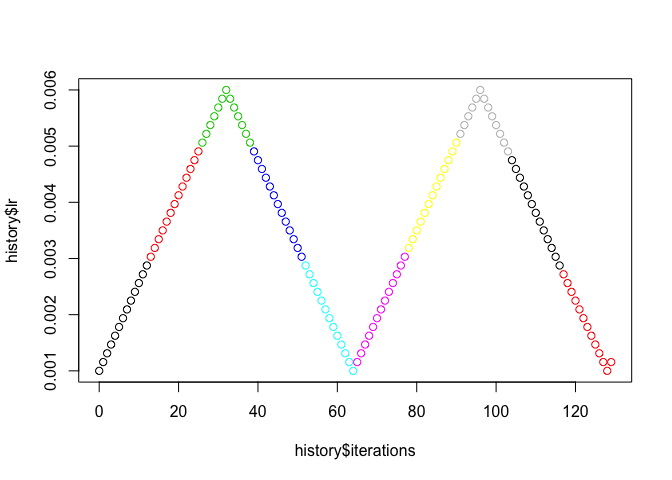
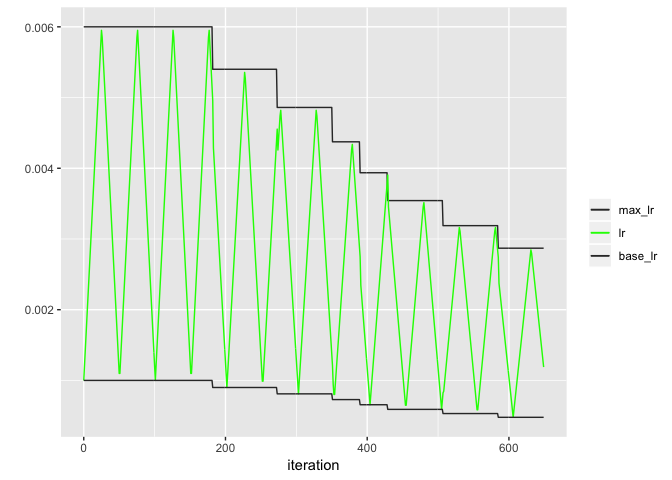
update readme

diff --git a/README.md b/README.md
@@ -14,10 +14,13 @@ the R implementation of Keras. Currently, the package features:
 
   - a Keras callback for cyclical learning rate scheduling as proposed
     by [Smith (2017)](https://arxiv.org/abs/1506.01186), closely adapted
-    from the [Python implementation](https://github.com/bckenstler/CLR).
-    Please see the [README](https://github.com/bckenstler/CLR) from the
-    Python implementation for details. It’s really almost a 1:1
-    translation.
+    from the [Python implementation](https://github.com/bckenstler/CLR)
+    and then extended so they the bands are scaled by a constant factor
+    (typically \< 1) after the validation loss has not improved for a
+    while. For details, see the
+    [README](https://github.com/bckenstler/CLR) from the Python
+    implementation and the example below for dynamically adjusting
+    bandwidths.
 
 Contributions welcome.
 
@@ -61,20 +64,28 @@ model %>% compile(
 )
 ```
 
-Next, we can fit the model with a learning rate schedule.
+Next, we can fit the model with a learning rate schedule. We dynamically
+adjust the bandwidths of the learnin rate (multiplication with 0.9)
+whenever the validation loss does not decrease for three epochs. When
+decreased, we wait 2 epochs (`cooldown`) before we set in the patience
+counter again.
 
 ``` r
+iter_per_epoch <- nrow(train_data) / 32
 callback_clr <- new_callback_cyclical_learning_rate(
-  step_size = 32,
+  step_size = iter_per_epoch * 2,
   base_lr = 0.001,
   max_lr = 0.006,
-  gamma = 0.99,
-  mode = "triangular"
+  mode = "triangular", 
+  patience = 3, 
+  factor = 0.9, 
+  cooldown = 2,
+  verbose = 0
 )
 model %>% fit(
   train_data, train_targets,
   validation_data = list(test_data, test_targets),
-  epochs = 10, verbose = 1,
+  epochs = 50, verbose = 0,
   callbacks = list(callback_clr)
 )
 ```
@@ -83,19 +94,18 @@ We can now have a look at the learning rates:
 
 ``` r
 head(callback_clr$history)
-#>           lr iterations epochs
-#> 1 0.00100000          0      1
-#> 2 0.00115625          1      1
-#> 3 0.00131250          2      1
-#> 4 0.00146875          3      1
-#> 5 0.00162500          4      1
-#> 6 0.00178125          5      1
+#>            lr base_lr max_lr iteration epochs
+#> 1 0.001000000   0.001  0.006         0      1
+#> 2 0.001198020   0.001  0.006         1      1
+#> 3 0.001396040   0.001  0.006         2      1
+#> 4 0.001594059   0.001  0.006         3      1
+#> 5 0.001792079   0.001  0.006         4      1
+#> 6 0.001990099   0.001  0.006         5      1
 ```
 
-The colors in the plot mark the different epochs whereas:
-
 ``` r
-plot_clr_history(callback_clr)
+backend <- ifelse(rlang::is_installed("ggplot2"), "ggplot2", "base") 
+plot_clr_history(callback_clr, granularity = "iteration", backend = backend)
 ```
 
 <img src="man/figures/README-plot-clr-1.png" width="100%" />
